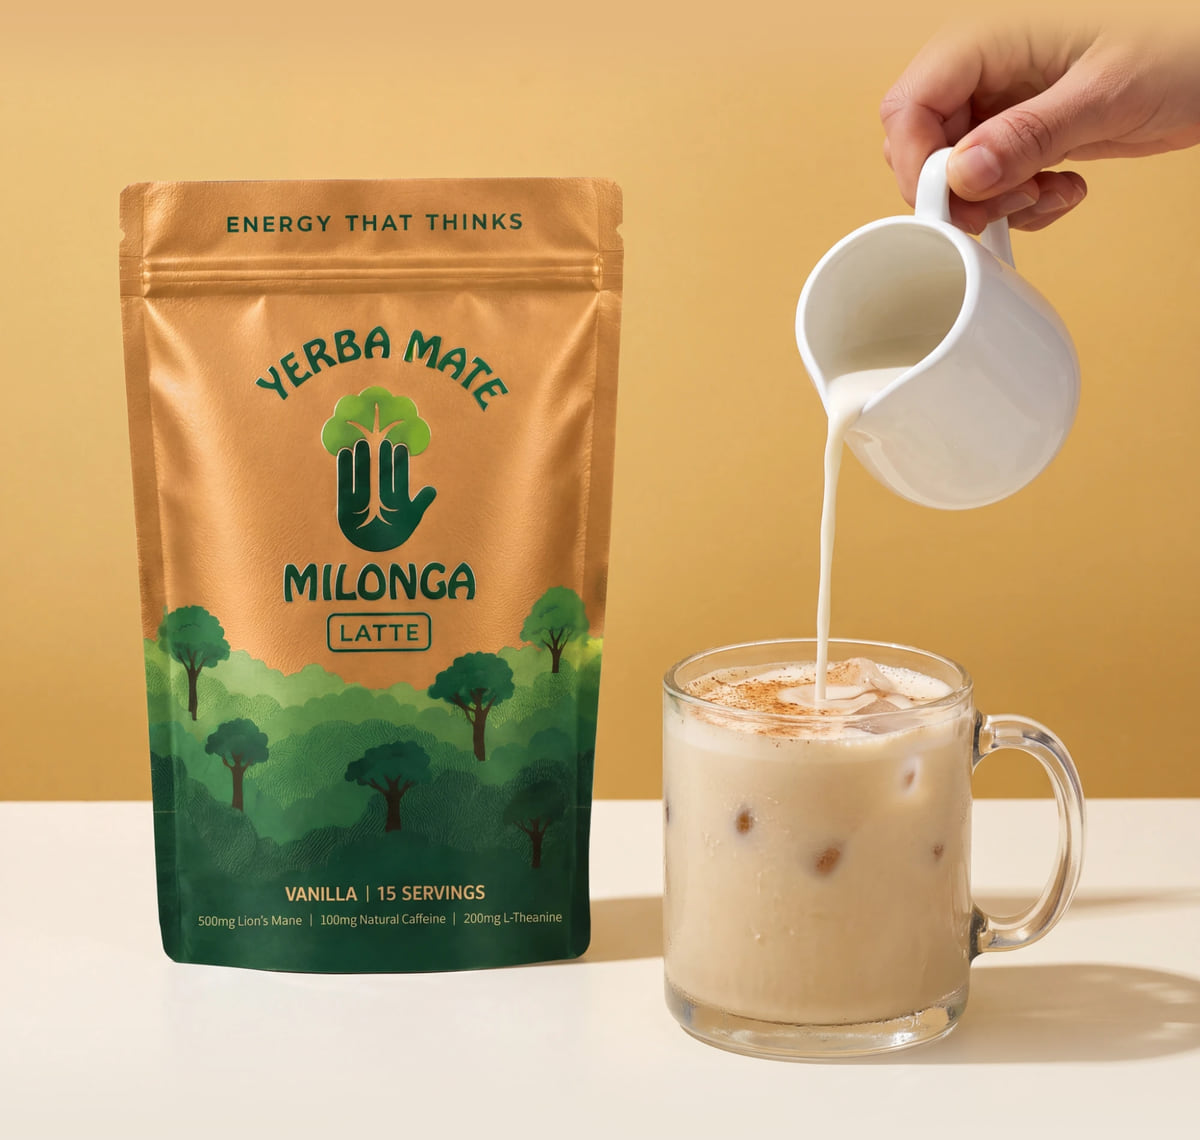
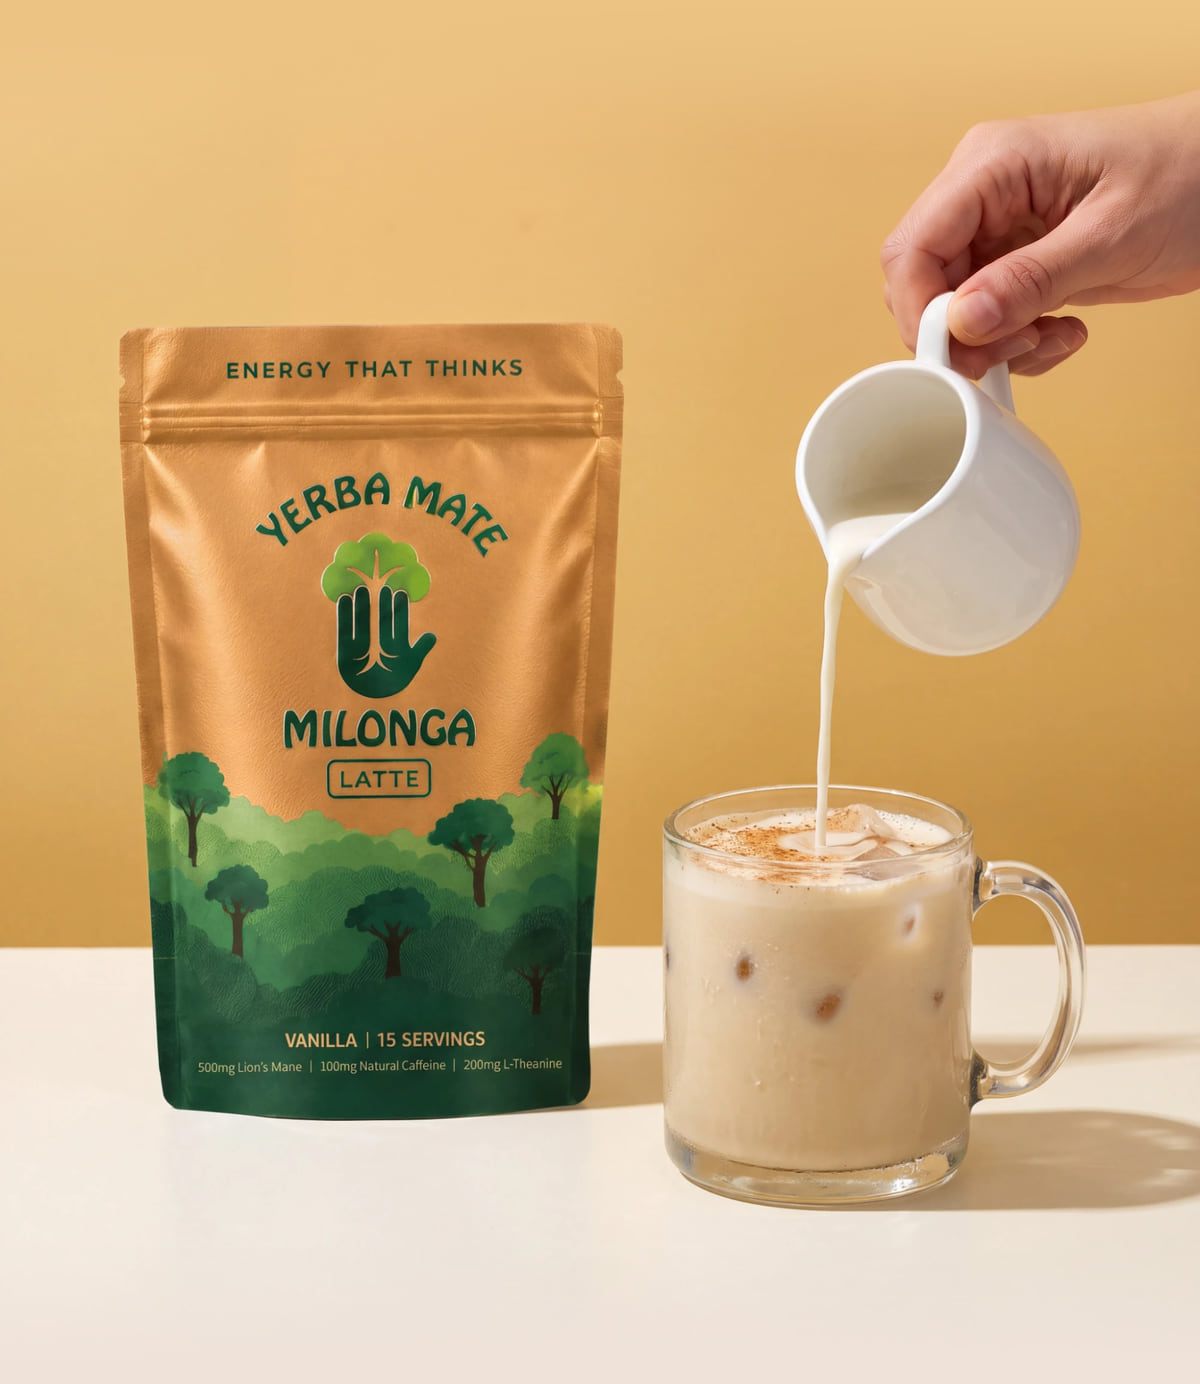
Subscribers E1: three-steps section on the pour photo's gold, whole hand in frame
Claude-Session: https://claude.ai/code/session_01NhEtXPnfeCJfN73SqBkUZ5

diff --git a/email-ds/refine/sub1-e1.html b/email-ds/refine/sub1-e1.html
@@ -39,8 +39,8 @@ body{margin:0;background:#FFFFFF;padding:28px 0 60px}
     .bg-hero { background-color:#EEDCD0 !important; }
     .bg-cream { background-color:#F7F4EA !important; }
     .bg-gold { background-color:#E3BC62 !important; }
-    .bg-wall { background-color:#E4B77D !important; }
-    .bg-table { background-color:#EDE5D9 !important; }
+    .bg-wall { background-color:#ECC383 !important; }
+    .bg-table { background-color:#EEE2D9 !important; }
   }
 </style></head><body>
 <div class="inbox"><div class="lab">Inbox preview</div><div class="row"><div class="av">M</div>
@@ -68,12 +68,12 @@ body{margin:0;background:#FFFFFF;padding:28px 0 60px}
 
 <!-- ── 2 · YOUR FIRST CLUB CUP (Bernat's pouring photo is the section's background: the title
      and the three steps sit on its gold wall, its white table carries on into hot / iced) ── -->
-<tr><td class="pad bg-wall" align="center" bgcolor="#E4B77D" style="background-color:#E4B77D;padding:52px 40px 0;font-family:'Montserrat','Helvetica Neue',Helvetica,Arial,sans-serif;">
+<tr><td class="pad bg-wall" align="center" bgcolor="#ECC383" style="background-color:#ECC383;padding:52px 40px 0;font-family:'Montserrat','Helvetica Neue',Helvetica,Arial,sans-serif;">
 <div style="font-size:12px;line-height:16px;font-weight:700;letter-spacing:3px;text-transform:uppercase;color:#004D27;">Your first club cup</div>
 <div class="h-sec" style="padding-top:12px;font-family:'Times New Roman',Times,Georgia,serif;font-size:40px;line-height:44px;font-weight:400;color:#004D27;">Three steps,</div>
 <div class="h-sec" style="font-family:'Times New Roman',Times,Georgia,serif;font-size:40px;line-height:44px;font-weight:700;font-style:italic;color:#004D27;">thirty seconds.</div>
 </td></tr>
-<tr><td class="pad-photo bg-wall" bgcolor="#E4B77D" style="background-color:#E4B77D;padding:32px 30px 8px;">
+<tr><td class="pad-photo bg-wall" bgcolor="#ECC383" style="background-color:#ECC383;padding:32px 30px 8px;">
 <table role="presentation" width="100%" cellpadding="0" cellspacing="0" border="0" style="table-layout:fixed;"><tr>
 <td class="how" width="33%" align="center" valign="top" style="width:33%;padding:0 8px;font-family:'Montserrat','Helvetica Neue',Helvetica,Arial,sans-serif;">
 <img class="how-img" src="../exports/klaviyo/sub1-e1/img/step-scoop.png" width="56" height="56" alt="" role="presentation" style="display:block;margin:0 auto;width:56px;height:56px;border:0;">
@@ -92,15 +92,15 @@ body{margin:0;background:#FFFFFF;padding:28px 0 60px}
 </td>
 </tr></table>
 </td></tr>
-<tr><td class="bg-wall" bgcolor="#E4B77D" style="background-color:#E4B77D;padding:0;font-size:0;line-height:0;"><img class="full" src="../exports/klaviyo/sub1-e1/img/howto.jpg" width="600" height="570" alt="Milk poured into an iced Mate Latte beside the pouch" style="display:block;width:600px;height:570px;border:0;"></td></tr>
+<tr><td class="bg-wall" bgcolor="#ECC383" style="background-color:#ECC383;padding:0;font-size:0;line-height:0;"><img class="full" src="../exports/klaviyo/sub1-e1/img/howto.jpg" width="600" height="692" alt="Milk poured into an iced Mate Latte beside the pouch" style="display:block;width:600px;height:692px;border:0;"></td></tr>
 
 <!-- ── 2b · HOT OR ICED (on the table colour of the photo above; the cutouts from pp1-e1) ── -->
-<tr><td class="pad bg-table" align="center" bgcolor="#EDE5D9" style="background-color:#EDE5D9;padding:16px 40px 0;font-family:'Montserrat','Helvetica Neue',Helvetica,Arial,sans-serif;">
+<tr><td class="pad bg-table" align="center" bgcolor="#EEE2D9" style="background-color:#EEE2D9;padding:16px 40px 0;font-family:'Montserrat','Helvetica Neue',Helvetica,Arial,sans-serif;">
 <div style="font-size:12px;line-height:16px;font-weight:700;letter-spacing:3px;text-transform:uppercase;color:#004D27;">Your way</div>
 <div class="h-sec" style="padding-top:12px;font-family:'Times New Roman',Times,Georgia,serif;font-size:40px;line-height:44px;font-weight:400;color:#004D27;">Hot or iced,</div>
 <div class="h-sec" style="font-family:'Times New Roman',Times,Georgia,serif;font-size:40px;line-height:44px;font-weight:700;font-style:italic;color:#004D27;">it&rsquo;s all yours.</div>
 </td></tr>
-<tr><td class="pad-photo bg-table" bgcolor="#EDE5D9" style="background-color:#EDE5D9;padding:30px 30px 56px;">
+<tr><td class="pad-photo bg-table" bgcolor="#EEE2D9" style="background-color:#EEE2D9;padding:30px 30px 56px;">
 <table role="presentation" width="100%" cellpadding="0" cellspacing="0" border="0" style="table-layout:fixed;"><tr>
 <td class="drink" width="50%" align="center" valign="top" style="width:50%;padding:0 10px 0 0;font-family:'Montserrat','Helvetica Neue',Helvetica,Arial,sans-serif;">
 <img class="drink-img" src="../exports/klaviyo/pp1-e1/img/drink-hot.png" width="200" height="205" alt="A hot Mate Latte in a glass mug" style="display:block;margin:0 auto;width:200px;height:205px;border:0;">

diff --git a/email-ds/exports/klaviyo/sub1-e1/sub1-e1.html b/email-ds/exports/klaviyo/sub1-e1/sub1-e1.html
@@ -42,8 +42,8 @@
     .bg-hero { background-color:#EEDCD0 !important; }
     .bg-cream { background-color:#F7F4EA !important; }
     .bg-gold { background-color:#E3BC62 !important; }
-    .bg-wall { background-color:#E4B77D !important; }
-    .bg-table { background-color:#EDE5D9 !important; }
+    .bg-wall { background-color:#ECC383 !important; }
+    .bg-table { background-color:#EEE2D9 !important; }
   }
 </style>
 </head>
@@ -70,12 +70,12 @@
 
 <!-- ── 2 · YOUR FIRST CLUB CUP (Bernat's pouring photo is the section's background: the title
      and the three steps sit on its gold wall, its white table carries on into hot / iced) ── -->
-<tr><td class="pad bg-wall" align="center" bgcolor="#E4B77D" style="background-color:#E4B77D;padding:52px 40px 0;font-family:'Montserrat','Helvetica Neue',Helvetica,Arial,sans-serif;">
+<tr><td class="pad bg-wall" align="center" bgcolor="#ECC383" style="background-color:#ECC383;padding:52px 40px 0;font-family:'Montserrat','Helvetica Neue',Helvetica,Arial,sans-serif;">
 <div style="font-size:12px;line-height:16px;font-weight:700;letter-spacing:3px;text-transform:uppercase;color:#004D27;">Your first club cup</div>
 <div class="h-sec" style="padding-top:12px;font-family:'Times New Roman',Times,Georgia,serif;font-size:40px;line-height:44px;font-weight:400;color:#004D27;">Three steps,</div>
 <div class="h-sec" style="font-family:'Times New Roman',Times,Georgia,serif;font-size:40px;line-height:44px;font-weight:700;font-style:italic;color:#004D27;">thirty seconds.</div>
 </td></tr>
-<tr><td class="pad-photo bg-wall" bgcolor="#E4B77D" style="background-color:#E4B77D;padding:32px 30px 8px;">
+<tr><td class="pad-photo bg-wall" bgcolor="#ECC383" style="background-color:#ECC383;padding:32px 30px 8px;">
 <table role="presentation" width="100%" cellpadding="0" cellspacing="0" border="0" style="table-layout:fixed;"><tr>
 <td class="how" width="33%" align="center" valign="top" style="width:33%;padding:0 8px;font-family:'Montserrat','Helvetica Neue',Helvetica,Arial,sans-serif;">
 <img class="how-img" src="https://cdn.klaviyomail.com/company/TwvSnK/images/81d6cb7d-7cdb-44f6-bf63-434b7a35a942.png" width="56" height="56" alt="" role="presentation" style="display:block;margin:0 auto;width:56px;height:56px;border:0;">
@@ -94,15 +94,15 @@
 </td>
 </tr></table>
 </td></tr>
-<tr><td class="bg-wall" bgcolor="#E4B77D" style="background-color:#E4B77D;padding:0;font-size:0;line-height:0;"><img class="full" src="https://cdn.klaviyomail.com/company/TwvSnK/images/b18e2a97-e510-421d-a1ec-d2a4da54e2f4.jpeg" width="600" height="570" alt="Milk poured into an iced Mate Latte beside the pouch" style="display:block;width:600px;height:570px;border:0;"></td></tr>
+<tr><td class="bg-wall" bgcolor="#ECC383" style="background-color:#ECC383;padding:0;font-size:0;line-height:0;"><img class="full" src="https://cdn.klaviyomail.com/company/TwvSnK/images/b18e2a97-e510-421d-a1ec-d2a4da54e2f4.jpeg" width="600" height="692" alt="Milk poured into an iced Mate Latte beside the pouch" style="display:block;width:600px;height:692px;border:0;"></td></tr>
 
 <!-- ── 2b · HOT OR ICED (on the table colour of the photo above; the cutouts from pp1-e1) ── -->
-<tr><td class="pad bg-table" align="center" bgcolor="#EDE5D9" style="background-color:#EDE5D9;padding:16px 40px 0;font-family:'Montserrat','Helvetica Neue',Helvetica,Arial,sans-serif;">
+<tr><td class="pad bg-table" align="center" bgcolor="#EEE2D9" style="background-color:#EEE2D9;padding:16px 40px 0;font-family:'Montserrat','Helvetica Neue',Helvetica,Arial,sans-serif;">
 <div style="font-size:12px;line-height:16px;font-weight:700;letter-spacing:3px;text-transform:uppercase;color:#004D27;">Your way</div>
 <div class="h-sec" style="padding-top:12px;font-family:'Times New Roman',Times,Georgia,serif;font-size:40px;line-height:44px;font-weight:400;color:#004D27;">Hot or iced,</div>
 <div class="h-sec" style="font-family:'Times New Roman',Times,Georgia,serif;font-size:40px;line-height:44px;font-weight:700;font-style:italic;color:#004D27;">it&rsquo;s all yours.</div>
 </td></tr>
-<tr><td class="pad-photo bg-table" bgcolor="#EDE5D9" style="background-color:#EDE5D9;padding:30px 30px 56px;">
+<tr><td class="pad-photo bg-table" bgcolor="#EEE2D9" style="background-color:#EEE2D9;padding:30px 30px 56px;">
 <table role="presentation" width="100%" cellpadding="0" cellspacing="0" border="0" style="table-layout:fixed;"><tr>
 <td class="drink" width="50%" align="center" valign="top" style="width:50%;padding:0 10px 0 0;font-family:'Montserrat','Helvetica Neue',Helvetica,Arial,sans-serif;">
 <img class="drink-img" src="https://cdn.klaviyomail.com/company/TwvSnK/images/eb720e35-e441-496a-a96c-5f30dc637591.png" width="200" height="205" alt="A hot Mate Latte in a glass mug" style="display:block;margin:0 auto;width:200px;height:205px;border:0;">
